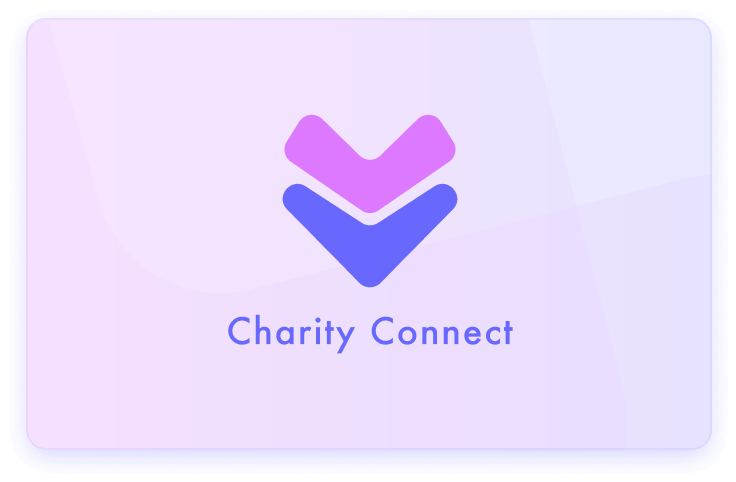
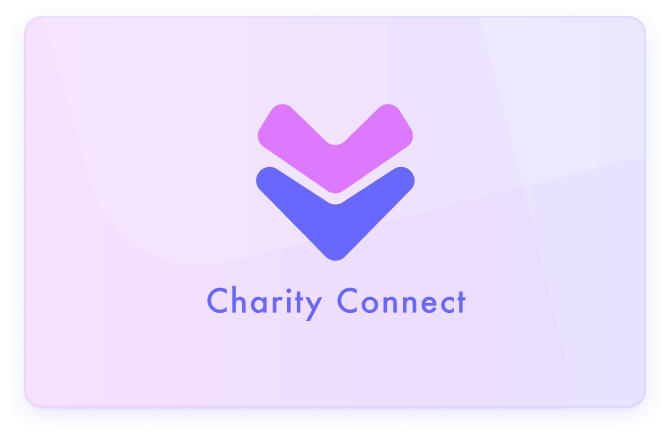
feat: 🎸 update card images

Changed region(s): [[0.2994, 0.6545, 0.479, 0.7437], [0.509, 0.6545, 0.6886, 0.714]]

diff --git a/frontend/src/components/common/tokens-grid/tokens-grid-item.tsx b/frontend/src/components/common/tokens-grid/tokens-grid-item.tsx
@@ -5,6 +5,7 @@ import { Card } from '@tokenscript/engine-js/dist/lib.esm/tokenScript/Card';
 import { previewAddr } from '@tokenscript/engine-js/dist/lib.esm/utils';
 import { getCardButtonClass } from '../../viewers/util/getCardButtonClass';
 import { TokenGridContext } from '../../viewers/util/getTokensFlat';
+import { PASS_CONTRACT, POINTS_CONTRACT } from '../../../integration/constants';
 
 @Component({
   tag: 'tokens-grid-item',
@@ -101,12 +102,30 @@ export class TokensGridItem {
     } else {
       title = this.token.name;
     }
+    let imageURL: string
+    const fallbackImageURL = this.tokenScript.getMetadata().imageUrl ? this.tokenScript.getMetadata().imageUrl : this.token.image ?? this.tokenScript.getMetadata().iconUrl
+
+    // @ts-ignore
+    const contract = this.token.collectionId ?? this.token.contractAddress
+    if (contract) {
+      if (contract === PASS_CONTRACT) {
+        imageURL =
+          "assets/images/charity-connect-card.png"
+      } else if (contract === POINTS_CONTRACT) {
+        imageURL = "assets/images/charity-connect-card-points.png"
+      } else {
+        imageURL = fallbackImageURL
+      }
+    } else {
+      imageURL = fallbackImageURL
+    }
 
     return (
       <Host class="ts-token-container tokens-grid-item">
         <token-icon
-          src={this.tokenScript.getMetadata().imageUrl ? this.tokenScript.getMetadata().imageUrl : this.token.image ?? this.tokenScript.getMetadata().iconUrl}
+          src={imageURL}
           imageTitle={this.token.name}
+          style={{"background": "linear-gradient(90deg, rgba(220, 121, 255, 0.1), rgba(104, 104, 255, 0.1))"}}
         />
         <div class="tg-item-details">
           <div class="tg-item-heading">
